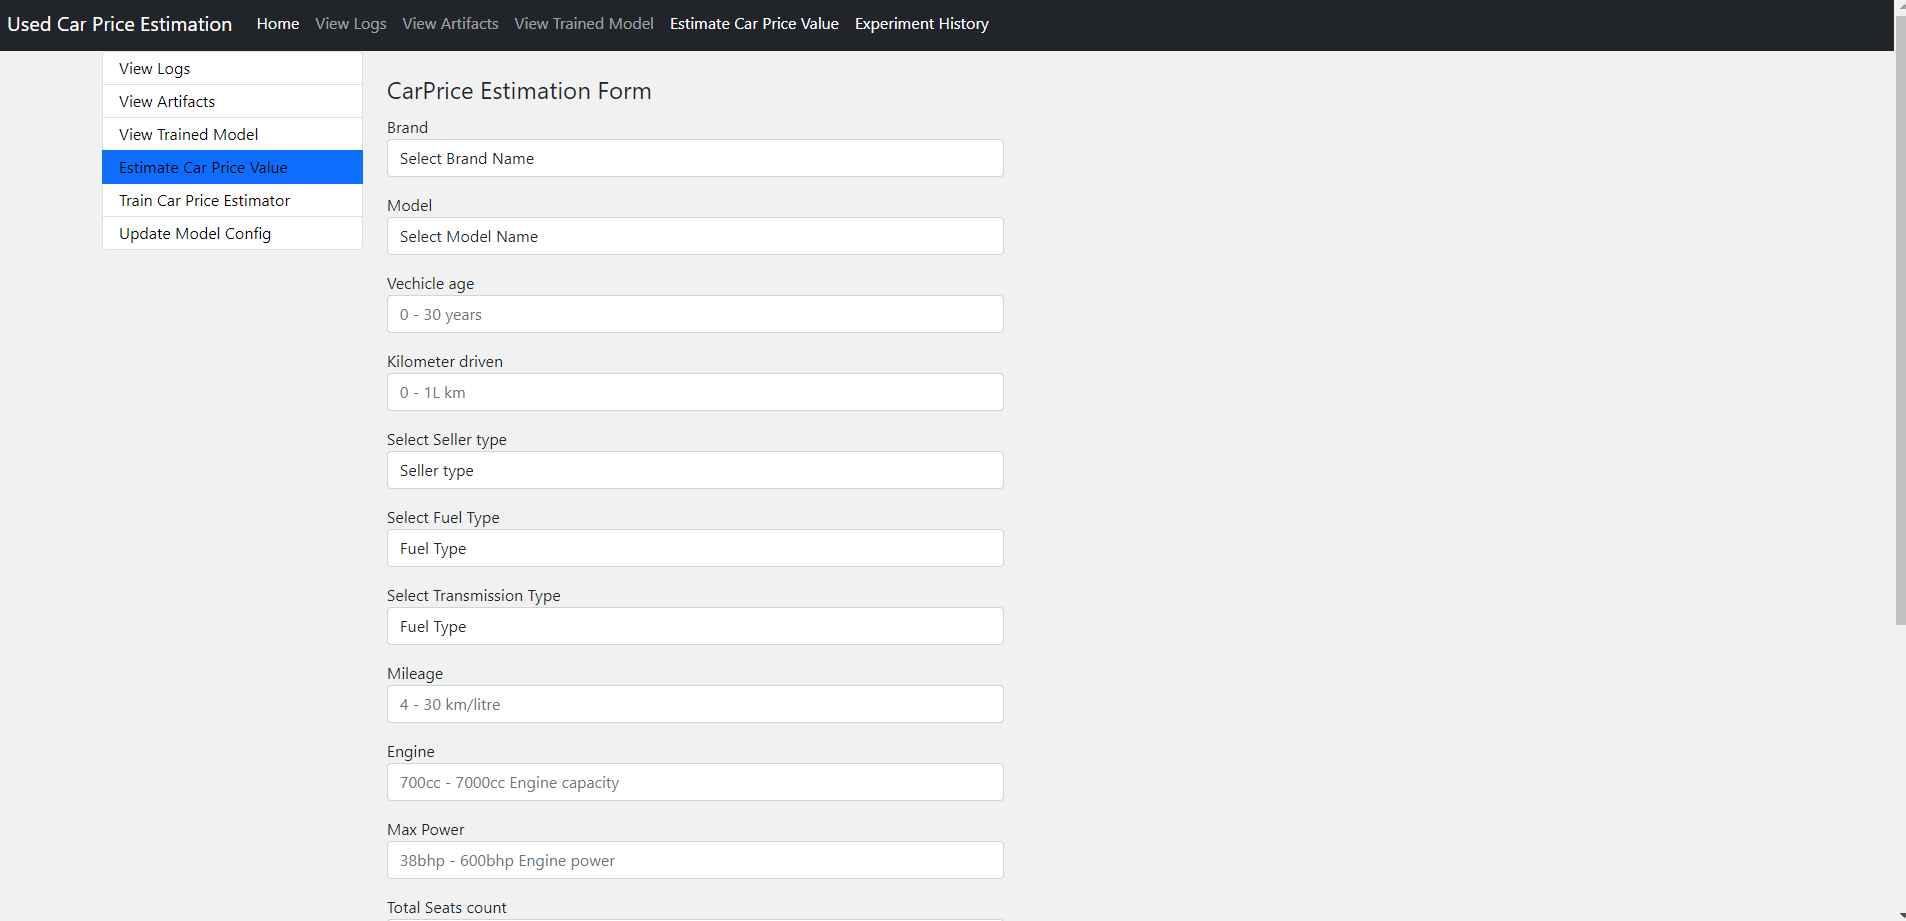
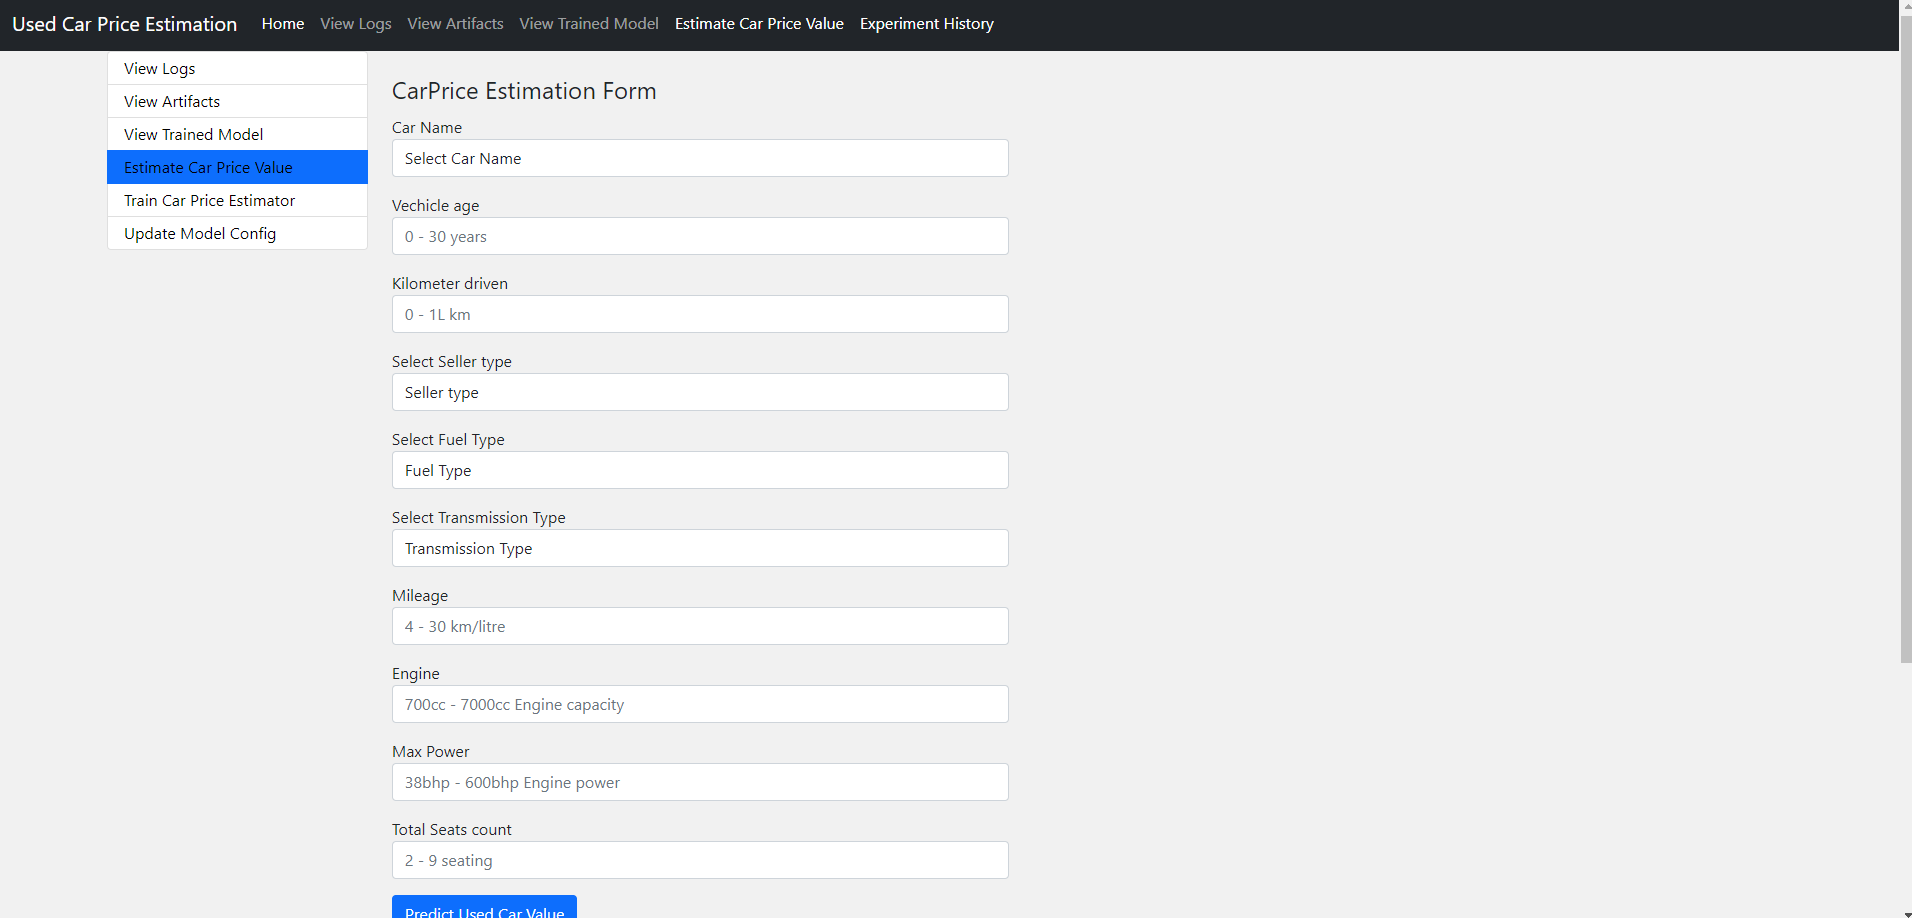
fix

diff --git a/templates/predict.html b/templates/predict.html
@@ -59,7 +59,7 @@
               <div class="mb-3">
                 <label for="transmission">Select Transmission Type</label>
                 <select class="form-control" id="transmission" name="transmission" placeholder="transmission" required="required">
-                  <option value="" disabled selected>Fuel Type</option>
+                  <option value="" disabled selected>Transmission Type</option>
                   <option>Automatic</option>
                   <option>Manual</option>
                 </select>
